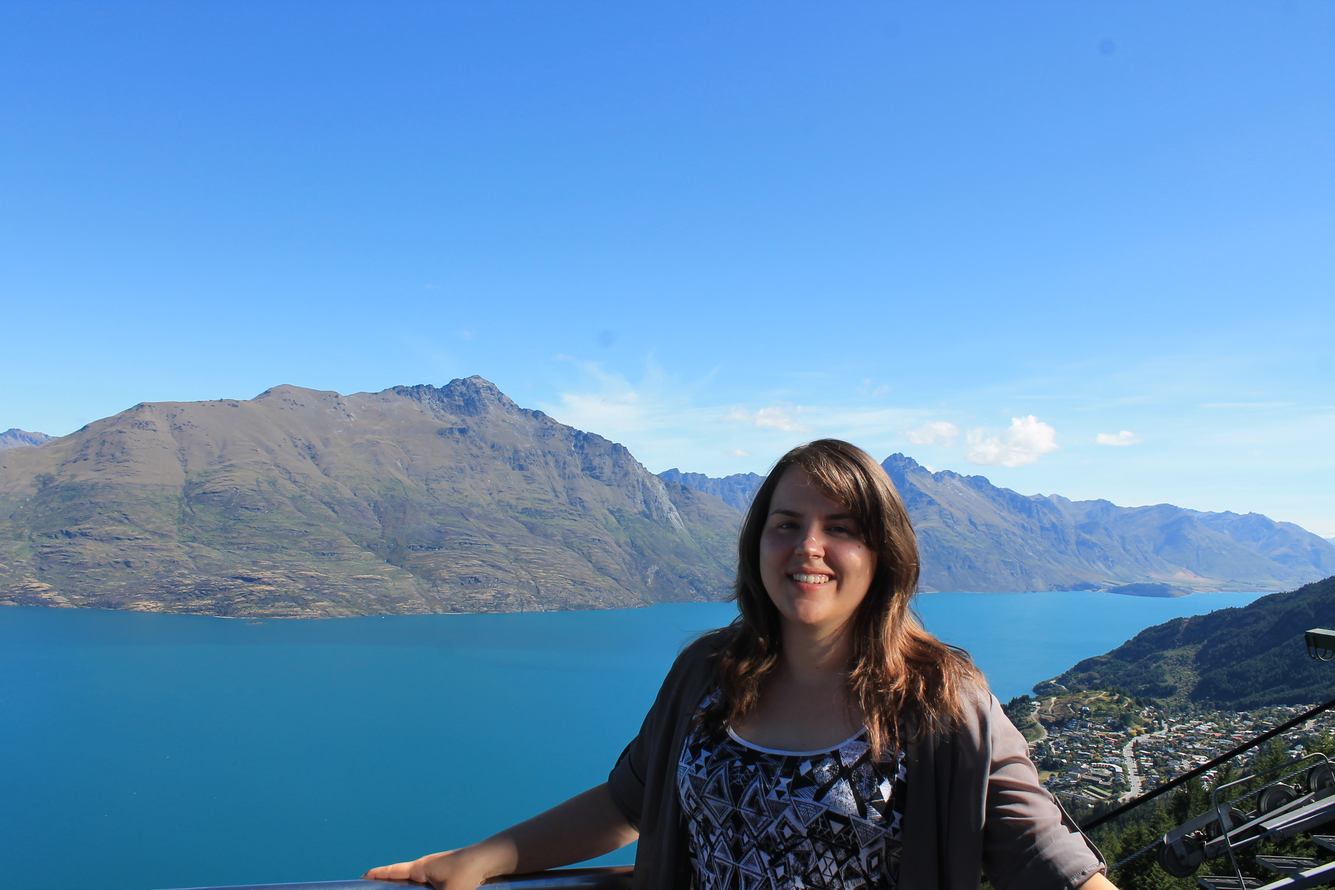
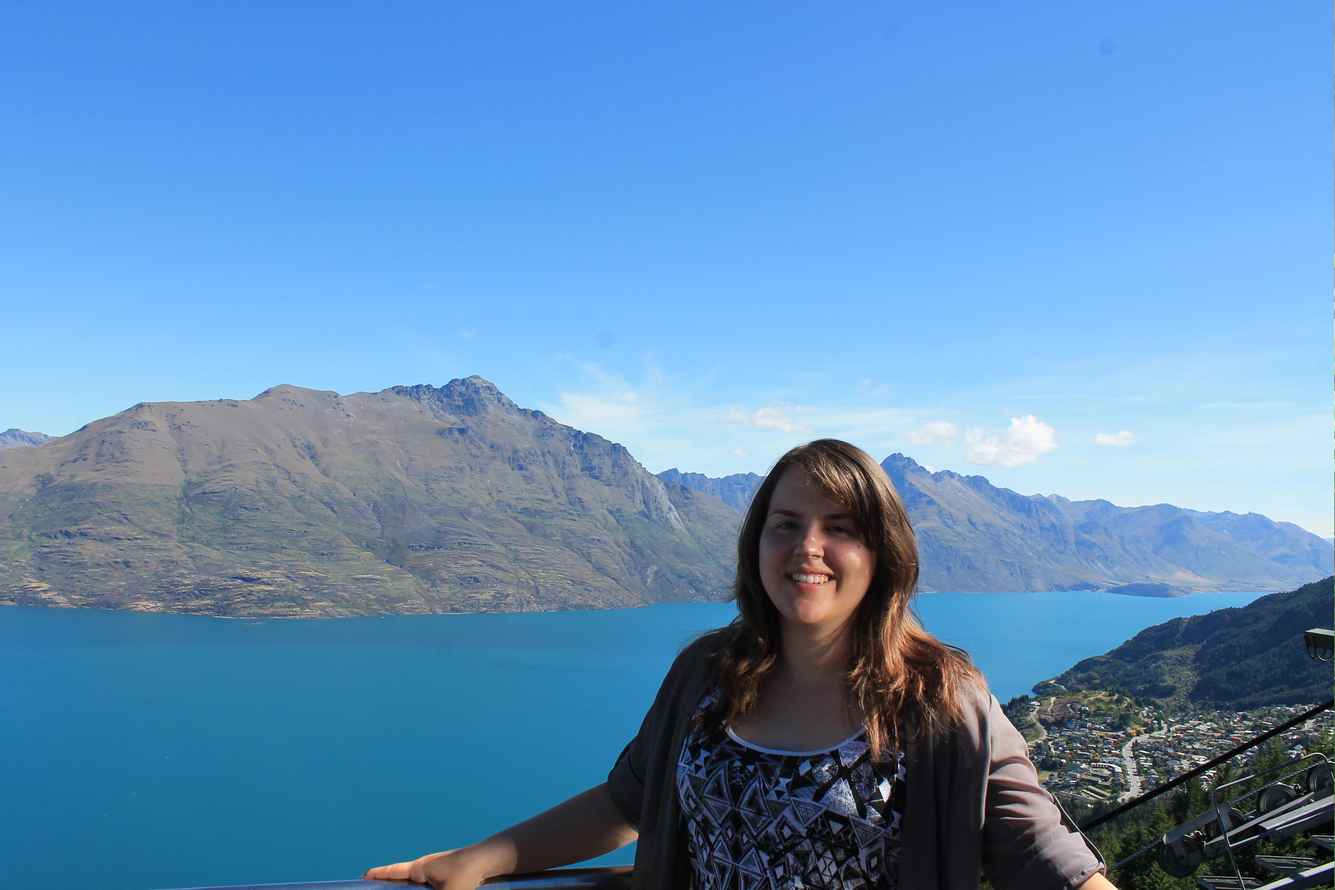
Added functional image reel and modal. Made images smaller for faster loading

diff --git a/public/scripts/views-main/image-reels/image-reel-NZ.js b/public/scripts/views-main/image-reels/image-reel-NZ.js
@@ -1,27 +1,27 @@
 const reel1 = [
-    'img/newzealand/image-reel/1.jpg',
-    'img/newzealand/image-reel/2.jpg',
-    'img/newzealand/image-reel/3.jpg',
-    'img/newzealand/image-reel/4.jpg',
-    'img/newzealand/image-reel/5.jpg',
-    'img/newzealand/image-reel/6.jpg',
-    'img/newzealand/image-reel/7.JPG',
-    'img/newzealand/image-reel/8.JPG',
-    'img/newzealand/image-reel/9.JPG',
-    'img/newzealand/image-reel/10.JPG',
-    'img/newzealand/image-reel/11.JPG',
-    'img/newzealand/image-reel/12.JPG',
-    'img/newzealand/image-reel/13.JPG'
-]
+    {src: 'img/newzealand/image-reel/1.jpg', txt: 'Seals on in the harbour'},
+    {src: 'img/newzealand/image-reel/2.jpg', txt: 'SEALS CLOSE UP'},
+    {src: 'img/newzealand/image-reel/14.JPG',  txt: 'BOOM'}, 
+    {src: 'img/newzealand/image-reel/3.jpg', txt: 'ELEPHAUNTS'}, 
+    {src: 'img/newzealand/image-reel/4.jpg', txt: 'JIRAF'}, 
+    {src: 'img/newzealand/image-reel/5.jpg', txt: 'olifantje'}, 
+    {src: 'img/newzealand/image-reel/6.jpg', txt: 'vis?'}, 
+    {src: 'img/newzealand/image-reel/7.JPG', txt: 'ponies!'}, 
+    {src: 'img/newzealand/image-reel/8.JPG', txt: 'hornhippo'}, 
+    {src: 'img/newzealand/image-reel/9.JPG', txt: 'rhino'}, 
+    {src: 'img/newzealand/image-reel/10.JPG', txt: 'wij op berg'}, 
+    {src: 'img/newzealand/image-reel/11.JPG', txt: 'mordor?'}, 
+    {src: 'img/newzealand/image-reel/12.JPG', txt: 'haai!'}, 
+    {src: 'img/newzealand/image-reel/13.JPG',  txt: 'strnad'}    
+];
 
-reel1.forEach(function(src){
-    $('<img class="thumbnail" src='+src+'></img>').appendTo("#reel1 .image-reel")
+reel1.forEach(function(img){
+    $('<img data-text='+img.txt+' class="thumbnail" src='+img.src+'></img>').appendTo("#reel1 .image-reel")
 });
-
 
 // Check the left Xpos of the first reel. All other reels should have the same Xpos.
 var posLeft = $('#reel1').position().left;
-var image_width = 160;
+var image_width = 195;
 
 // Disable the buttons if the reel has reached its limit
 function checkPosition(par) {
@@ -33,7 +33,7 @@ function checkPosition(par) {
     }
 
      // Controll the slide right button
-     var reel_length = $(par).children('.image-reel').children().length * 160;
+     var reel_length = $(par).children('.image-reel').children().length * image_width;
     
      if(posLeft + reel_length <= $('#reel1').position().left + $('#reel1').width()) {
         $(par).children('.scroll-right').attr("disabled", "disabled");
@@ -44,14 +44,32 @@ function checkPosition(par) {
 
 // Reel button logic
 $(".scroll-left").click(function(event){    
-    $(this).siblings('.image-reel').animate({'marginLeft' : "+=160px"}, 100);
+    $(this).siblings('.image-reel').animate({'marginLeft' : "+="+image_width+"px"}, 100);
     posLeft += image_width;
     checkPosition($(this).parent());
 })
 
 $(".scroll-right").click(function(event){
-    $(this).siblings('.image-reel').animate({'marginLeft' : "-=160px"}, 100);
+    $(this).siblings('.image-reel').animate({'marginLeft' : "-="+image_width+"px"}, 100);
     posLeft -= image_width;
-    console.log(posLeft)
     checkPosition($(this).parent());
 })
+
+
+$('.thumbnail').click(function(event){
+    event.stopPropagation();
+
+    var src = $(this).attr('src');
+    $('#big-image').attr('src', src);
+
+    var text = $(this).attr('data-text');    
+    $('#description').html(text);
+
+    $("#modal").show();
+});
+
+$("body").click(function(event){    
+    if(event.target.id !== "big-image" && event.target.id !== "description") {
+        $("#modal").hide();
+    }
+});

diff --git a/public/stylesheets/main/image-reel.css b/public/stylesheets/main/image-reel.css
@@ -1,25 +1,82 @@
 .thumbnail {
-    height: 80px;
-    width: 150px;
-    
-    margin-right: 10px;
+    height: 120px;
+    width: 180px; 
+    padding: 3px;
+    margin-right: 15px;
     cursor: pointer;
     box-sizing: border-box;
-    border: 1px solid transparent;
+    border-radius: 3px;
+    border: 1px solid #ccc;
+    overflow: hidden;
 }
 
 .thumbnail:hover,
 .thumbnail:active {
-    border: 1px solid black;
+    border: 2px solid #cf6776;
 }
 
 .image-reel {
-    height: 80px;
+    height: 120px;
     width: 3000px;
     float: left; 
     position: relative;      
 }
 
 .image-reel-container {
-    overflow: hidden; 
+    overflow: hidden;
+}
+
+.image-reel-container button {
+    position: absolute;
+    z-index: 10;
+    height: 120px;
+    outline: none;
+    border: none;
+    background: #ccc;
+    opacity: 0.8;
+    cursor: pointer;
+}
+
+.image-reel-container button:hover {
+    opacity: 1;
+}
+
+.image-reel-container button:disabled {
+    opacity: 0.4;
+    cursor: default;
+}
+
+.scroll-right {
+    right: 25%;
+}
+
+/* MODAL STYLES */
+
+#modal {
+    position: fixed;
+    overflow: hidden;
+    top: 0;
+    left: 0;
+    width: 100%;
+    height: 100%;
+    z-index: 2000;
+    background-color: rgba(0,0,0,0.9); 
+    vertical-align:middle;
+}
+
+#big-image {
+    display: block;
+    max-width: 60%;
+    max-height: 80%;
+    margin: 100px auto;    
+    margin-bottom: 0;
+    padding-bottom: 30px;
+    background-color: #ccc;
+}
+
+
+#description {
+    text-align: center;
+    margin: 0 auto;
+    transform: translateY(-25px)
 }

diff --git a/public/stylesheets/stories-main.css b/public/stylesheets/stories-main.css
@@ -6,8 +6,9 @@ body {
 .navbar {
     display: flex;
     justify-content: space-between;
-    background: #ff798d;
+    background: #cf6776;
     color: white;
+    z-index: 500;
 }
 
 .nav-ph {
@@ -70,4 +71,14 @@ section {
 
 .blog-post hr {
     width: 80%;
+}
+
+@media (max-width: 500px) {
+    section {
+        padding: 25px 20px;
+    }
+
+    .background-paralax {
+        height: 300px;
+    }
 }

diff --git a/public/stylesheets/main/navbar.css b/public/stylesheets/main/navbar.css
@@ -12,6 +12,7 @@ html, body{
     color: white;
     position: fixed;
     width: 100%;
+    z-index: 500;
 }
 
 .menu, .logo {
